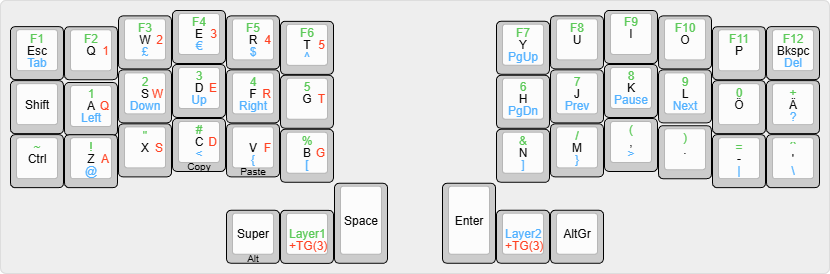
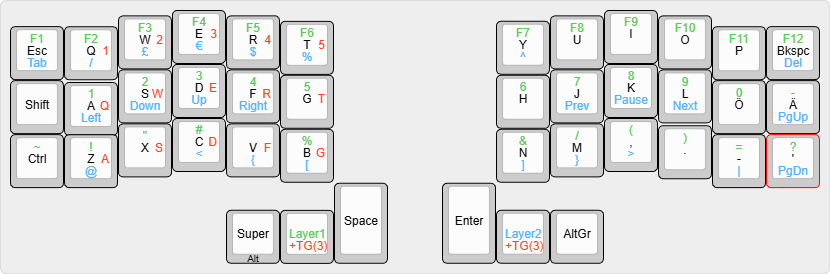
Another fix to keymap
- Keymap update
- Also updated keyboard.png to correspond keymap

diff --git a/Firmware/src/keymaps/vial/keymap.c b/Firmware/src/keymaps/vial/keymap.c
@@ -27,7 +27,7 @@ const uint16_t PROGMEM keymaps[][MATRIX_ROWS][MATRIX_COLS] = {
 
   [2] = LAYOUT_split_3x6_3(
     //------------------------------------------------------------------|   |----------------------------------------------------------------------------|
-    _______,    KC_PSLS,    RALT(KC_2), RALT(KC_3), RALT(KC_4), RALT(KC_5),     RALT(KC_6),     _______,    _______,    _______,    _______,    KC_DEL,
+    KC_TAB,     KC_PSLS,    RALT(KC_2), RALT(KC_3), RALT(KC_4), RALT(KC_5),     RALT(KC_6),     _______,    _______,    _______,    _______,    KC_DEL,
     //--------+---------+-----------+-----------+-----------+-----------|   |--------------+-----------+-------------+-----------+------------+----------|
     _______,    KC_LEFT,    KC_DOWN,    KC_UP,      KC_RIGHT,   _______,        _______,        KC_MPRV,    KC_MPLY,    KC_MNXT,    _______,    KC_PGUP,
     //--------+---------+-----------+-----------+-----------+-----------|   |--------------+-----------+-------------+-----------+------------+----------|
